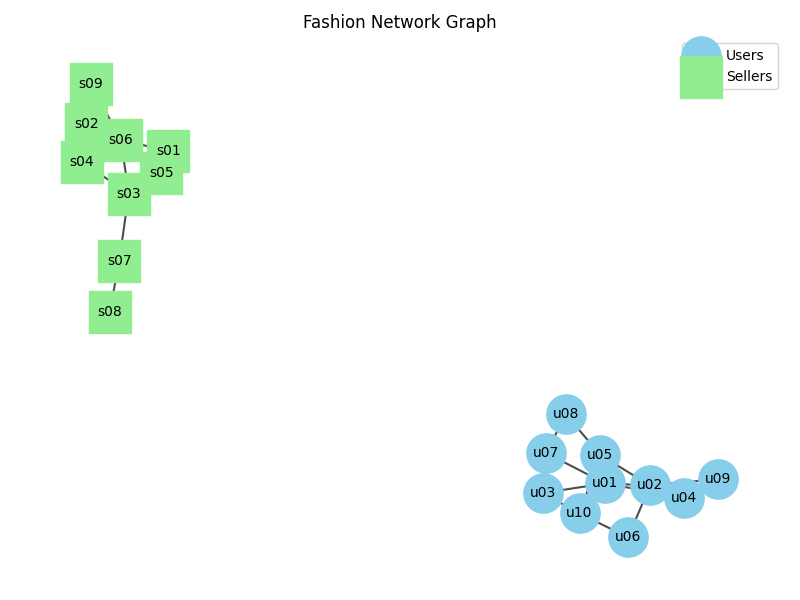
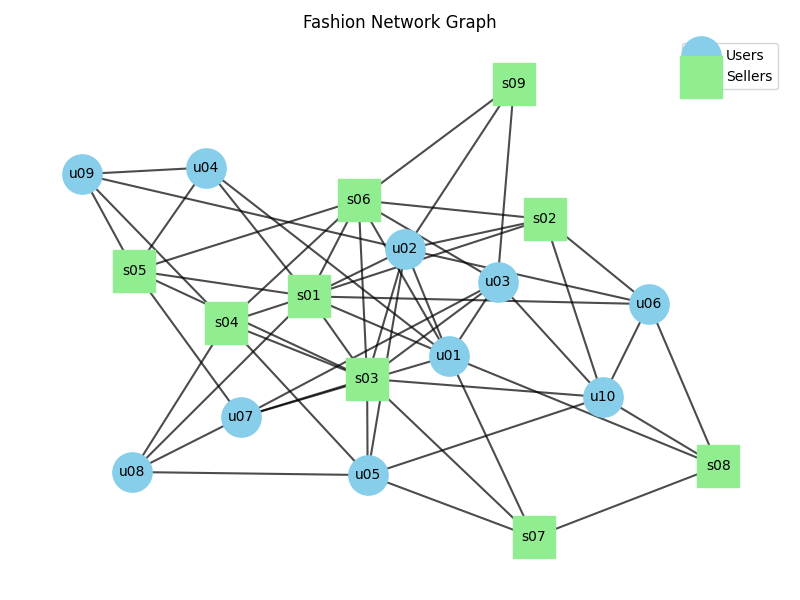
erica updates

diff --git a/main.py b/main.py
@@ -1,7 +1,8 @@
 import networkx as nx
 import matplotlib.pyplot as plt
-from users import get_user_pairs_from_csv, init_users, parse_user_seller_csv
+from users import get_user_pairs_from_csv, init_users, parse_user_seller_csv, init_user_seller_edges
 import sellers
+import numpy as np
 
 class FashionGraph:
     def __init__(self, directed=False):
@@ -76,6 +77,67 @@ def visualize_graph(G):
     plt.savefig("fashion_graph.png")
     plt.close()
 
+def visualize_soft_bipartite(fashion_graph):
+    G = fashion_graph.graph
+    plt.figure(figsize=(10, 7))
+
+    users = [n for n, d in G.nodes(data=True) if d.get("type") == "user"]
+    sellers = [n for n, d in G.nodes(data=True) if d.get("type") == "seller"]
+
+    # Start with full spring layout
+    pos = nx.spring_layout(G, seed=42, k=0.6)
+
+    # Separate by shifting, not flattening
+    for node in users:
+        pos[node][0] -= 1.5   # shift left
+
+    for node in sellers:
+        pos[node][0] += 1.5   # shift right
+
+    nx.draw_networkx_nodes(G, pos,
+                           nodelist=users,
+                           node_color="skyblue",
+                           node_size=800,
+                           label="Users")
+
+    nx.draw_networkx_nodes(G, pos,
+                           nodelist=sellers,
+                           node_color="lightgreen",
+                           node_shape="s",
+                           node_size=900,
+                           label="Sellers")
+
+    nx.draw_networkx_edges(G, pos, alpha=0.5)
+    nx.draw_networkx_labels(G, pos, font_size=9)
+
+    edge_labels = {
+        (u, v): data.get("reason", "")
+        for u, v, data in G.edges(data=True)
+    }
+
+    nx.draw_networkx_edge_labels(
+        G,
+        pos,
+        edge_labels=edge_labels,
+        font_size=6,          # small
+        font_color="gray",
+        label_pos=0.5,        # middle of edge
+        rotate=False,
+        bbox=dict(
+            boxstyle="round,pad=0.1",
+            fc="white",
+            ec="none",
+            alpha=0.6
+        )
+    )
+
+    plt.title("Soft Bipartite Layout")
+    plt.legend()
+    plt.axis("off")
+    plt.tight_layout()
+    plt.savefig("soft_bipartite_fashion_network.png")
+    plt.close()
+
 if __name__ == "__main__":
     G = FashionGraph(directed=False)
     # Get sellers graph (assumed NetworkX Graph)
@@ -84,13 +146,10 @@ if __name__ == "__main__":
     # Force seller nodes to have type="seller" if they don't already.
     G.merge_nx_graph(G_sellers, default_node_type="seller")
     init_users("friends.csv", G)
+    # visualize_graph(G.graph)
+
+    init_user_seller_edges(G)
+
     visualize_graph(G.graph)
 
-    edge_list = parse_user_seller_csv("user_seller_edges.csv")
-
-    print("User-Seller Edges: ", edge_list[0])
-
-    for user_id, seller_id, reason in edge_list:
-        print(f"Adding edge: User {user_id} -> Seller {seller_id} (Reason: {reason})")
-        G.add_user_seller_edge(user_id, seller_id, reason)
-        break
+    visualize_soft_bipartite(G)

diff --git a/users.py b/users.py
@@ -44,6 +44,13 @@ def parse_user_seller_csv(filepath):
             
     return edge_list
 
+def init_user_seller_edges(G):
+    edge_list = parse_user_seller_csv("user_seller_edges.csv")
+    
+    for edge_info in edge_list:
+        user_id, seller_id, reason = edge_info["user"], edge_info["seller"], edge_info["reason"]
+        G.add_user_seller_edge(user_id, seller_id, reason)
+
 def _summarize_friend_notes(notes: str) -> str:
     """
     Turn the 'notes' field into a short 1–2 word label for edge annotation.
